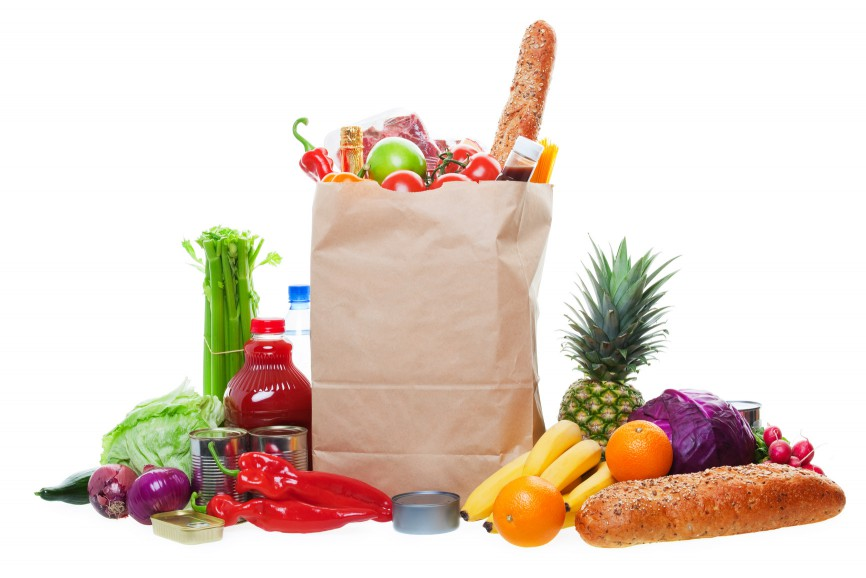
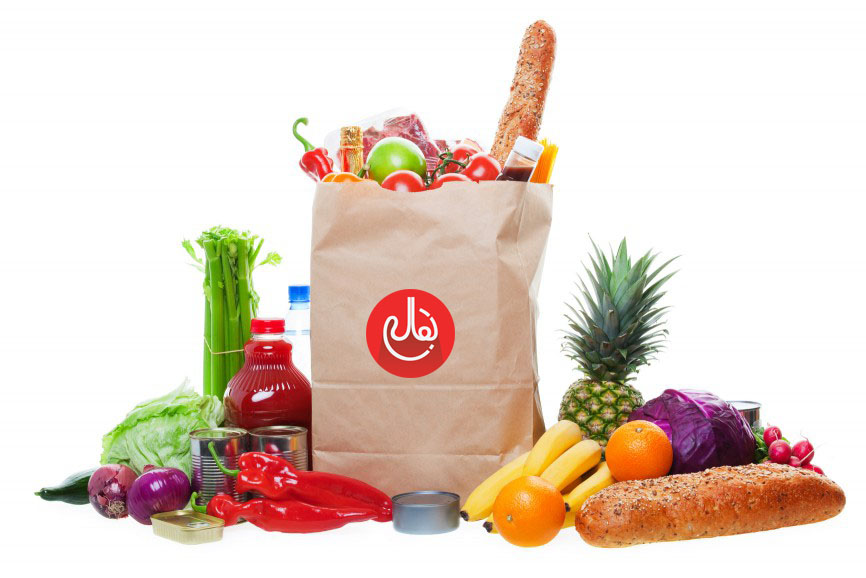
change img add sotres link update badge

Changed region(s): [[0.4053, 0.4983, 0.53, 0.654]]

diff --git a/index.html b/index.html
@@ -16,7 +16,6 @@
         </script>
 
 
-
         <!-- Global site tag (gtag.js) - Google Analytics -->
         <script async src="https://www.googletagmanager.com/gtag/js?id=UA-84050407-3"></script>
         <script>
@@ -33,12 +32,13 @@
         <meta name="keywords" content="فروشگاه موبایلی, خرید آنلاین، سوپر مارکت آنلاین، بقالیمون، بقالی مون" />
 
 
-
+        <!--remove it-->
+        <meta name="yandex-verification" content="14e4bb2e7cbca1b8" />
 
 
         <!-- favicon Icon -->
         <!--<link rel="shortcut icon" href="images/favicon.ico" type="image/x-icon">
-<link rel="icon" href="images/favicon.ico" type="image/x-icon">-->
+        <link rel="icon" href="images/favicon.ico" type="image/x-icon">-->
         <link rel='shortcut icon' type='image/x-icon' href="img/logo2.png" >
 
 
@@ -49,7 +49,7 @@
                                                               new Date().getTime(),event:'gtm.js'});var f=d.getElementsByTagName(s)[0],
                 j=d.createElement(s),dl=l!='dataLayer'?'&l='+l:'';j.async=true;j.src=
                     'https://www.googletagmanager.com/gtm.js?id='+i+dl;f.parentNode.insertBefore(j,f);
-                                    })(window,document,'script','dataLayer','GTM-NK62BQZ');</script>
+                                    })(windwow,document,'script','dataLayer','GTM-NK62BQZ');</script>
         <!-- End Google Tag Manager -->
 
 
@@ -68,7 +68,7 @@
 
     </head>
 
-    <body>
+    <body class="noselect">
 
         <header>
 
@@ -209,15 +209,22 @@
                                 <img src="img/android.png" alt="اپلیکیشن اندروید بقالیمون" id="android">
                                 <button class="btn btn-primary d-block w-100 mx-auto mt-4 disabled">داناود از کافه بازار</button>
                                 <button onclick=" window.open('https://baghalimoon.com/App/baghalimoon.apk');"  class="btn btn-primary d-block w-100 mx-auto mt-1">داناود مستقیم از سایت</button>
-                            </div>
+								<div class="d-block w-100 mx-auto mt-1">
+                                    <form action="https://myket.ir/app/com.moonShop" method="get">
+										<input type="image" src="img/Baghalimoon-ON-myket.png" alt="بقالیمون در مایکت" class="btn-primary w-100 mx-auto" style="background-color:transparent  " >
+                                    </form>
+                                </div>
+							</div>
                             <div class="col-sm-6 text-center download-box">
                                 <div>
                                     <img src="img/apple.png" alt="اپلیکیشن ios بقالیمون" id="apple">
-                                    <button class="btn btn-primary d-block w-100 mx-auto mt-4 disabled">داناود از اپ استور</button>
-                                    <button  class="btn btn-primary d-block w-100 mx-auto mt-1 disabled">داناود مستقیم از سایت</button>
-                                    <!--<form action="https://new.sibapp.com/applications/baghalimoon" method="get">-->
-                                    <!-- <input type="image" src="https://new.sibapp.com/files/Sibapp-Download-Icons/dl-eng.png" alt="بقالیمون در سیب اپ" class="d-block w-100 mx-auto mt-1">-->
-                                    <!-- </form>-->
+                                    <!--<button class="btn btn-primary d-block w-100 mx-auto mt-4 disabled">داناود از اپ استور</button>-->
+                                    <!--<button  class="btn btn-primary d-block w-100 mx-auto mt-1 disabled">داناود مستقیم از سایت</button>-->
+                                    <div class="d-block w-100 mx-auto mt-4">
+                                        <form action="https://new.sibapp.com/applications/baghalimoon" method="get">
+                                         <input type="image" src="img/Baghalimoon-ON-SIBAPP.png" alt="بقالیمون در سیب اپ" class="btn-primary w-100 mx-auto" style="background-color:transparent  " >
+                                         </form>
+                                     </div>
                                 </div>
                             </div>
                         </div>
@@ -315,7 +322,7 @@
 
         </section>
 
-        <footer class="bg-dark">
+        <footer class="noselect bg-dark">
             <div class="container text-white py-4">
                 <div class="row">
                     <div class="col-md-4 text-center d-flex">
@@ -342,10 +349,26 @@
                 </div>
                 <div class="row mt-3">
                     <div class="col text-center">
+					<a href="https://logo.saramad.ir/verify.aspx?CodeShamad=1-1-737694-63-0-1">
+                        <img class="transparent" src="https://logo.saramad.ir/logo.aspx?CodeShamad=1-1-737694-63-0-1" alt="http://logo.saramad.ir/logo.aspx?CodeShamad=1-1-737694-63-0-1"></img>
+                    </a>
+					</div>
+					
+					<div class="col text-center">
+                          <img class="transparent" src="img/Baghalimoon-ayandeh-banklogo.png" ></img>
+                    </div>
+					
+					<div class="col text-center">
+                          <img class="transparent" src="img/Baghalimoon-Shaparak-logo.png" ></img>
+                    </div>
+					
+					<div class="col text-center">
                         <script src="https://www.zarinpal.com/webservice/TrustCode" type="text/javascript"></script>
                     </div>
 
+
                 </div>
+				
 
             </div>
         </footer>
@@ -420,5 +443,6 @@
             })(document, window, 'Chatra');
         </script>
         <!-- /Chatra {/literal} -->
+
     </body>
 </html>

diff --git a/style.css b/style.css
@@ -6,7 +6,7 @@
 body {
     font-family: Mj_Dinar, sans-serif;
     background-color: #f6f4f1;
-    overflow-x: hidden;
+    overflow-x:hidden;
 }
 
 a:hover {
@@ -227,4 +227,22 @@ html, body {
     .nav-link {
         font-size: 0.7em;
     }
+}
+
+.noselect {
+    -webkit-touch-callout: none; /* iOS Safari */
+    -webkit-user-select: none; /* Safari */
+    -khtml-user-select: none; /* Konqueror HTML */
+    -moz-user-select: none; /* Firefox */
+    -ms-user-select: none; /* Internet Explorer/Edge */
+    -user-select: none; /* Non-prefixed version, currently
+                                  supported by Chrome and Opera */
+}
+
+img { 
+  -webkit-user-drag: none; 
+  -khtml-user-drag: none; 
+  -moz-user-drag: none; 
+  -o-user-drag: none; 
+  user-drag: none; 
 }
